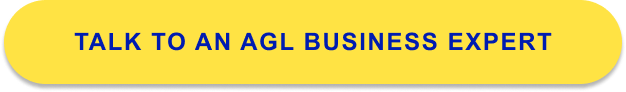
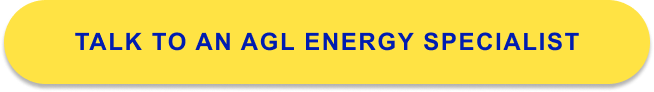
edm

diff --git a/AGA0361/edm-no-images.html b/AGA0361/edm-no-images.html
@@ -884,9 +884,9 @@
                                 <table border="0" cellpadding="0" cellspacing="0" role="presentation" style="border-collapse:collapse;border-spacing:0px;">
                                   <tbody>
                                     <tr>
-                                      <td style="width:312px;">
+                                      <td style="width:327px;">
                                         <a href="#" target="_blank">
-                                          <img alt="TALK TO AN AGL ENERGY SPECIALIST" src="aga0361-cta-02_no-image.png" style="border:0;display:block;outline:none;text-decoration:none;height:auto;width:100%;font-size:13px;" width="312" height="auto">
+                                          <img alt="TALK TO AN AGL ENERGY SPECIALIST" src="aga0361-cta-02_no-image.png" style="border:0;display:block;outline:none;text-decoration:none;height:auto;width:100%;font-size:13px;" width="327" height="auto">
                                         </a>
                                       </td>
                                     </tr>

diff --git a/AGA0361/edm-dark.html b/AGA0361/edm-dark.html
@@ -882,9 +882,9 @@
                                 <table border="0" cellpadding="0" cellspacing="0" role="presentation" style="border-collapse:collapse;border-spacing:0px;">
                                   <tbody>
                                     <tr>
-                                      <td style="width:312px;">
+                                      <td style="width:327px;">
                                         <a href="#" target="_blank">
-                                          <img alt="TALK TO AN AGL ENERGY SPECIALIST" src="aga0361-cta-02.png" style="border:0;display:block;outline:none;text-decoration:none;height:auto;width:100%;font-size:13px;" width="312" height="auto">
+                                          <img alt="TALK TO AN AGL ENERGY SPECIALIST" src="aga0361-cta-02.png" style="border:0;display:block;outline:none;text-decoration:none;height:auto;width:100%;font-size:13px;" width="327" height="auto">
                                         </a>
                                       </td>
                                     </tr>

diff --git a/AGA0361/edm.html b/AGA0361/edm.html
@@ -884,9 +884,9 @@
                                 <table border="0" cellpadding="0" cellspacing="0" role="presentation" style="border-collapse:collapse;border-spacing:0px;">
                                   <tbody>
                                     <tr>
-                                      <td style="width:312px;">
+                                      <td style="width:327px;">
                                         <a href="#" target="_blank">
-                                          <img alt="TALK TO AN AGL ENERGY SPECIALIST" src="aga0361-cta-02.png" style="border:0;display:block;outline:none;text-decoration:none;height:auto;width:100%;font-size:13px;" width="312" height="auto">
+                                          <img alt="TALK TO AN AGL ENERGY SPECIALIST" src="aga0361-cta-02.png" style="border:0;display:block;outline:none;text-decoration:none;height:auto;width:100%;font-size:13px;" width="327" height="auto">
                                         </a>
                                       </td>
                                     </tr>
